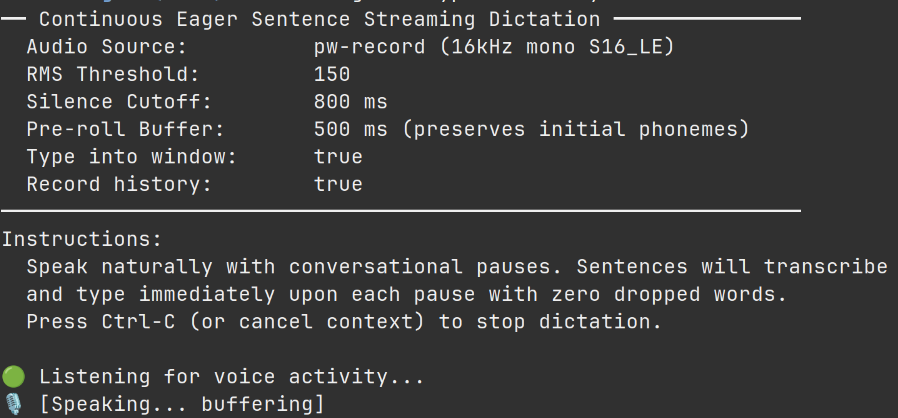
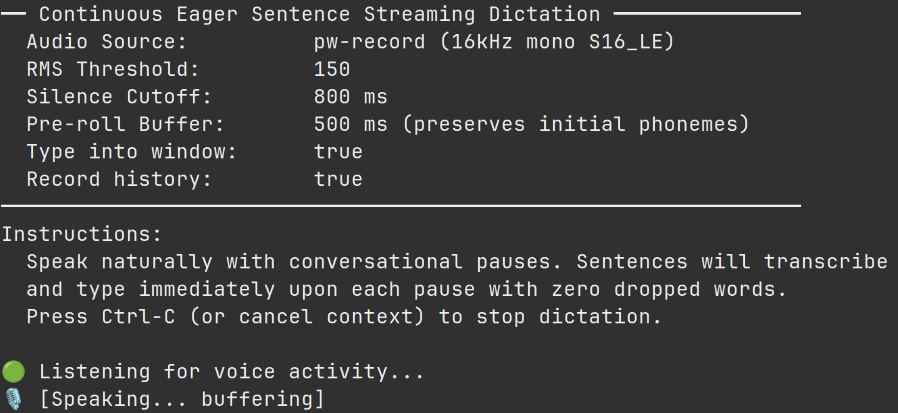
docs(website): clarify Go is dev-only, remove false GitHub mirror link
- Prerequisites and quickstart step 1 now note Go 1.22+ is only needed to
  build from source; most users can grab a prebuilt binary from the real,
  verified-live Codeberg release page (v0.1.1 tagged and pushed) instead.
- Removed a footer link to github.com/ubunatic/voxi -- voxi has no GitHub
  mirror, only Codeberg.
- Synced voxi-eager.png's height attribute to the file's actual dimensions
  (898x413, not 418) to avoid a slight stretch.

Claude-Session: https://claude.ai/code/session_01GGTi6nva3Q2mUxnPxXMoFg

diff --git a/website/index.html b/website/index.html
@@ -91,7 +91,7 @@
             <span class="terminal-title">voxi eager --type --history</span>
             <button class="copy-term-btn" data-copy="voxi eager --type --history" title="Copy command">copy</button>
           </div>
-          <img class="monitor-screenshot" src="voxi-eager.png" width="898" height="418"
+          <img class="monitor-screenshot" src="voxi-eager.png" width="898" height="413"
                alt="voxi eager --type --history startup banner: audio source, RMS threshold, silence cutoff, pre-roll buffer, and instructions, followed by 'Listening for voice activity...' and 'Speaking... buffering'">
         </div>
       </section>
@@ -288,7 +288,12 @@
           <div class="step-num">1</div>
           <div class="step-content">
             <h3>Clone and Install</h3>
-            <p>Compile user binaries and install systemd user service units:</p>
+            <p>
+              Compile user binaries and install systemd user service units. No Go toolchain?
+              Grab a prebuilt binary from the
+              <a href="https://codeberg.org/ubunatic/voxi/releases/latest" rel="noopener" target="_blank">latest release</a>
+              instead &mdash; the systemd unit files below still come from the repo checkout.
+            </p>
             <div class="code-block">
               <button class="copy-code-btn" title="Copy code">copy</button>
               <pre><code><span class="prompt">$</span> git clone https://codeberg.org/ubunatic/voxi.git
@@ -361,7 +366,9 @@
           <tbody>
             <tr>
               <td><strong>Go 1.22+</strong></td>
-              <td>Compilation of <code>voxi</code> CLI, agent, and daemons</td>
+              <td>Only needed to build from source (developers/contributors). Most users can
+                skip this and download a prebuilt binary from the
+                <a href="https://codeberg.org/ubunatic/voxi/releases/latest" rel="noopener" target="_blank">latest release</a> instead.</td>
               <td><code>golang</code> / <code>go</code></td>
             </tr>
             <tr>
@@ -545,7 +552,6 @@
       </div>
       <div class="foot-links">
         <a href="https://codeberg.org/ubunatic/voxi" rel="noopener" target="_blank">Codeberg Repository</a>
-        <a href="https://github.com/ubunatic/voxi" rel="noopener" target="_blank">GitHub Mirror</a>
         <a href="#top">Back to top ↑</a>
       </div>
     </div>
